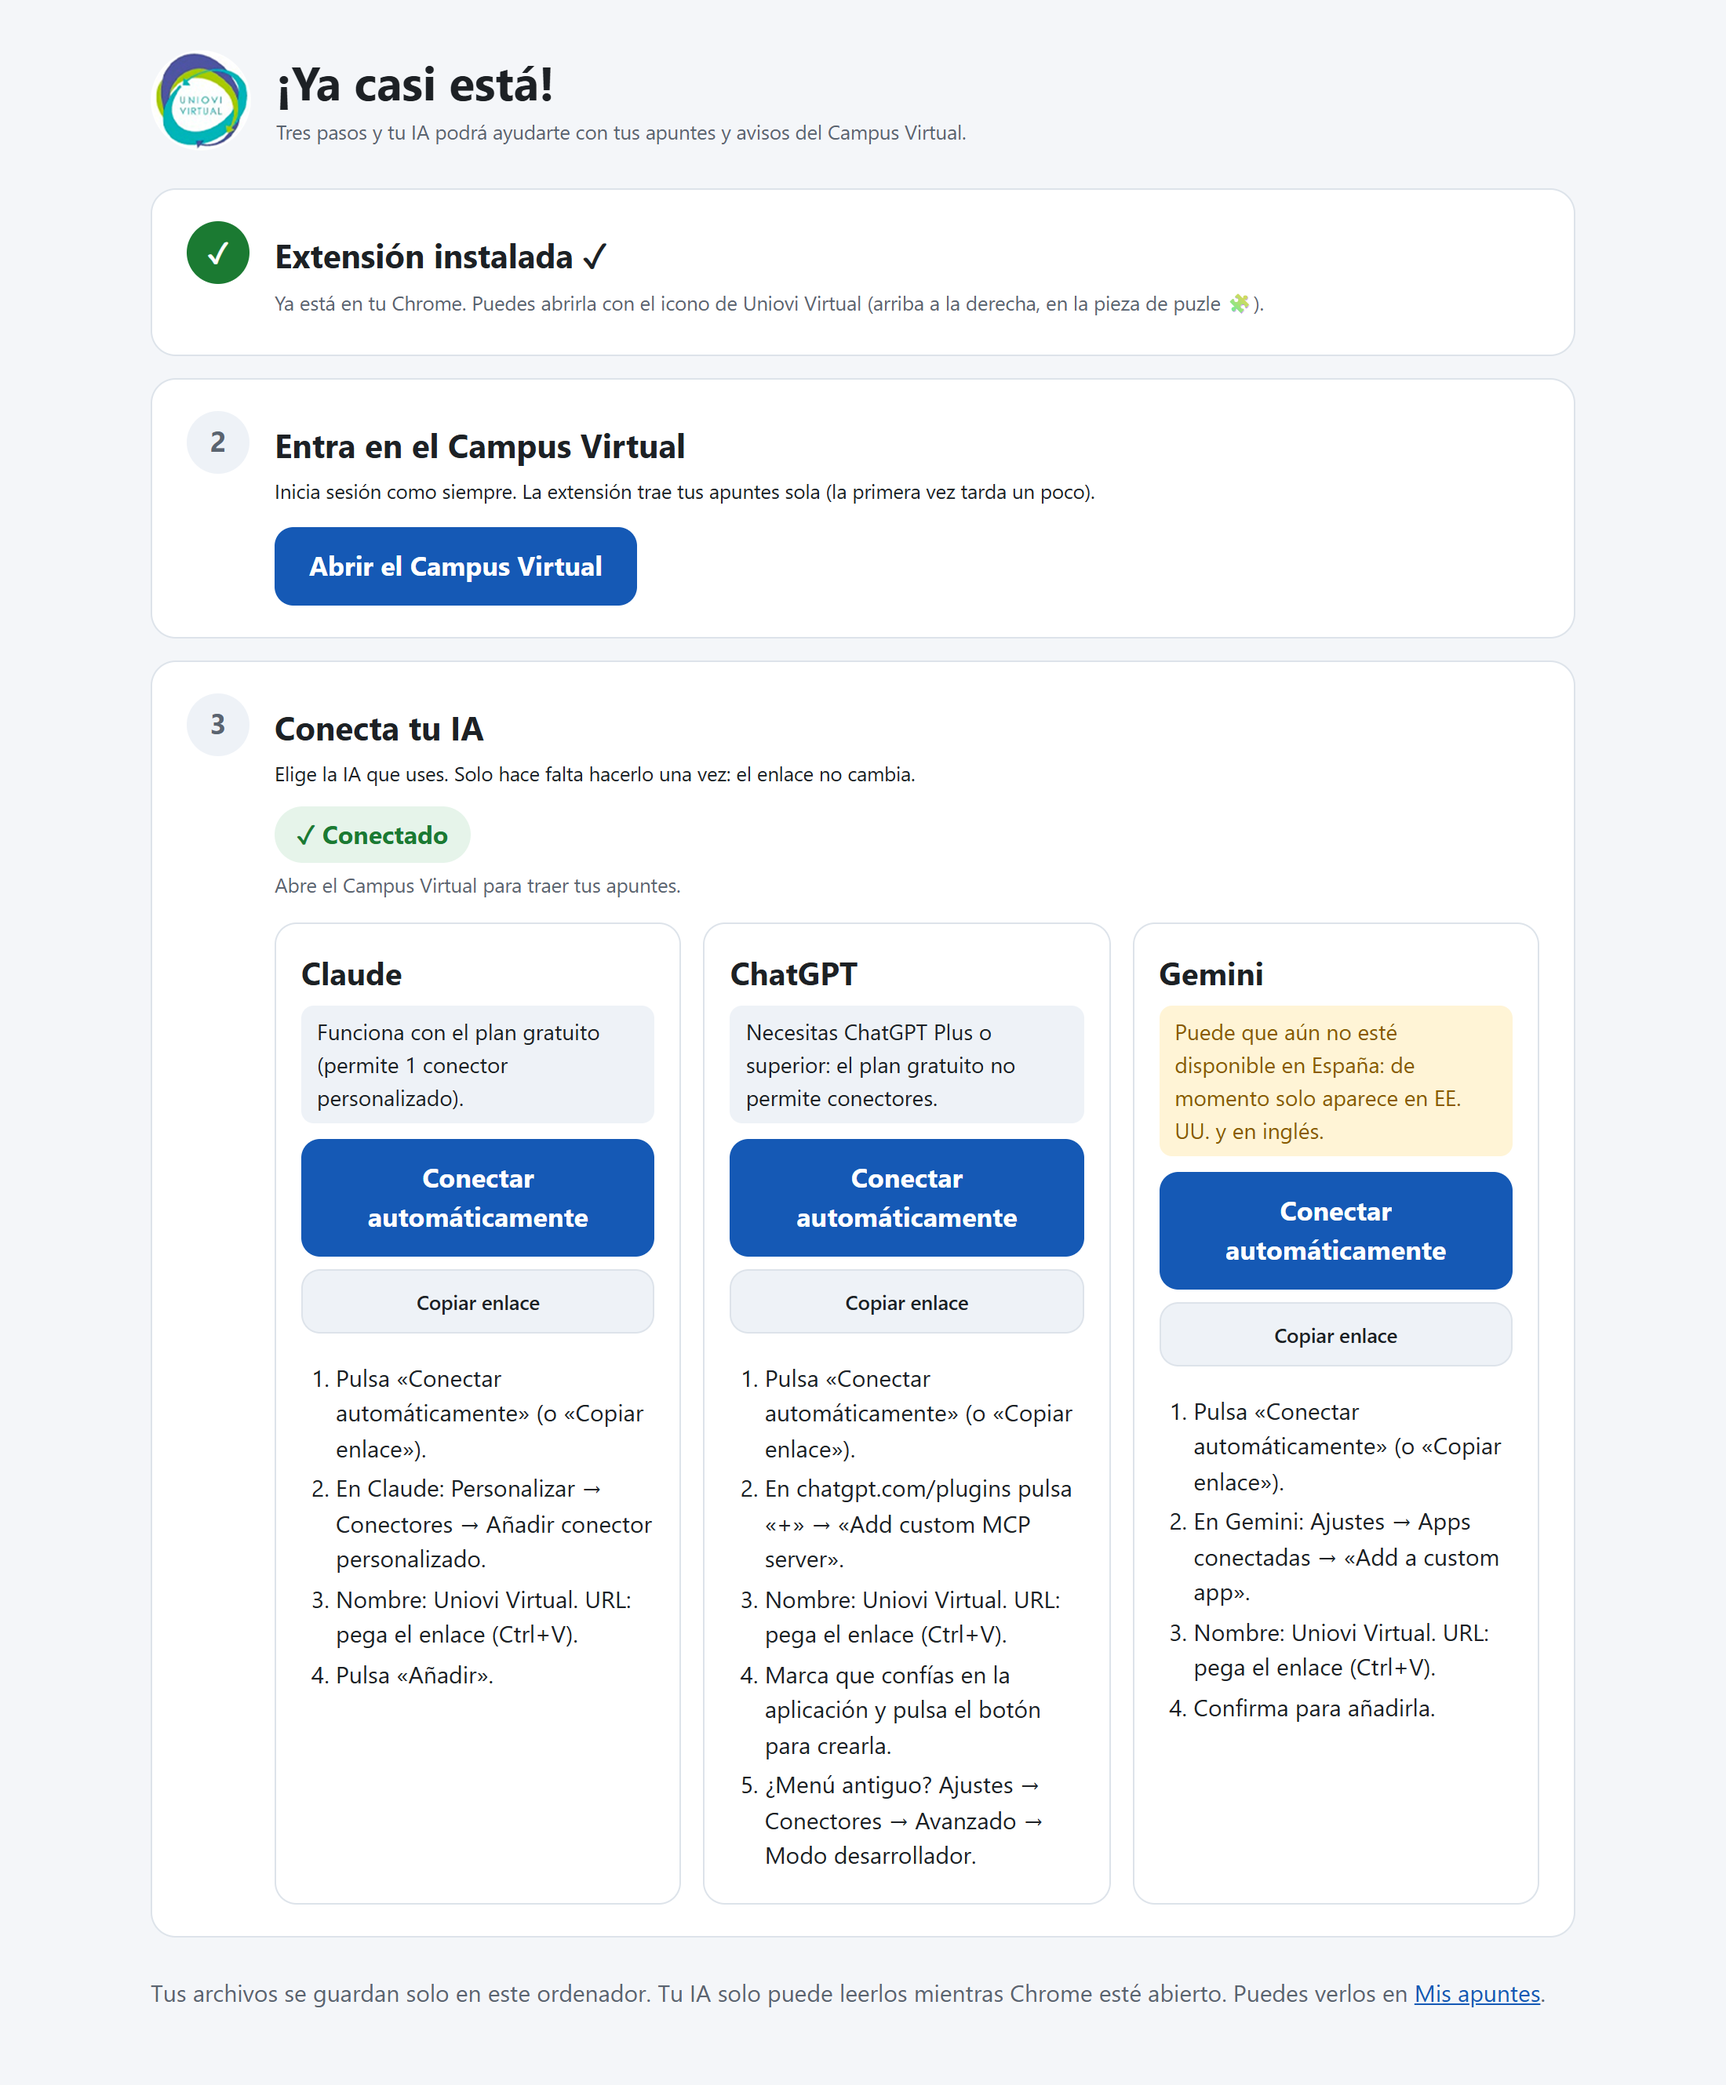
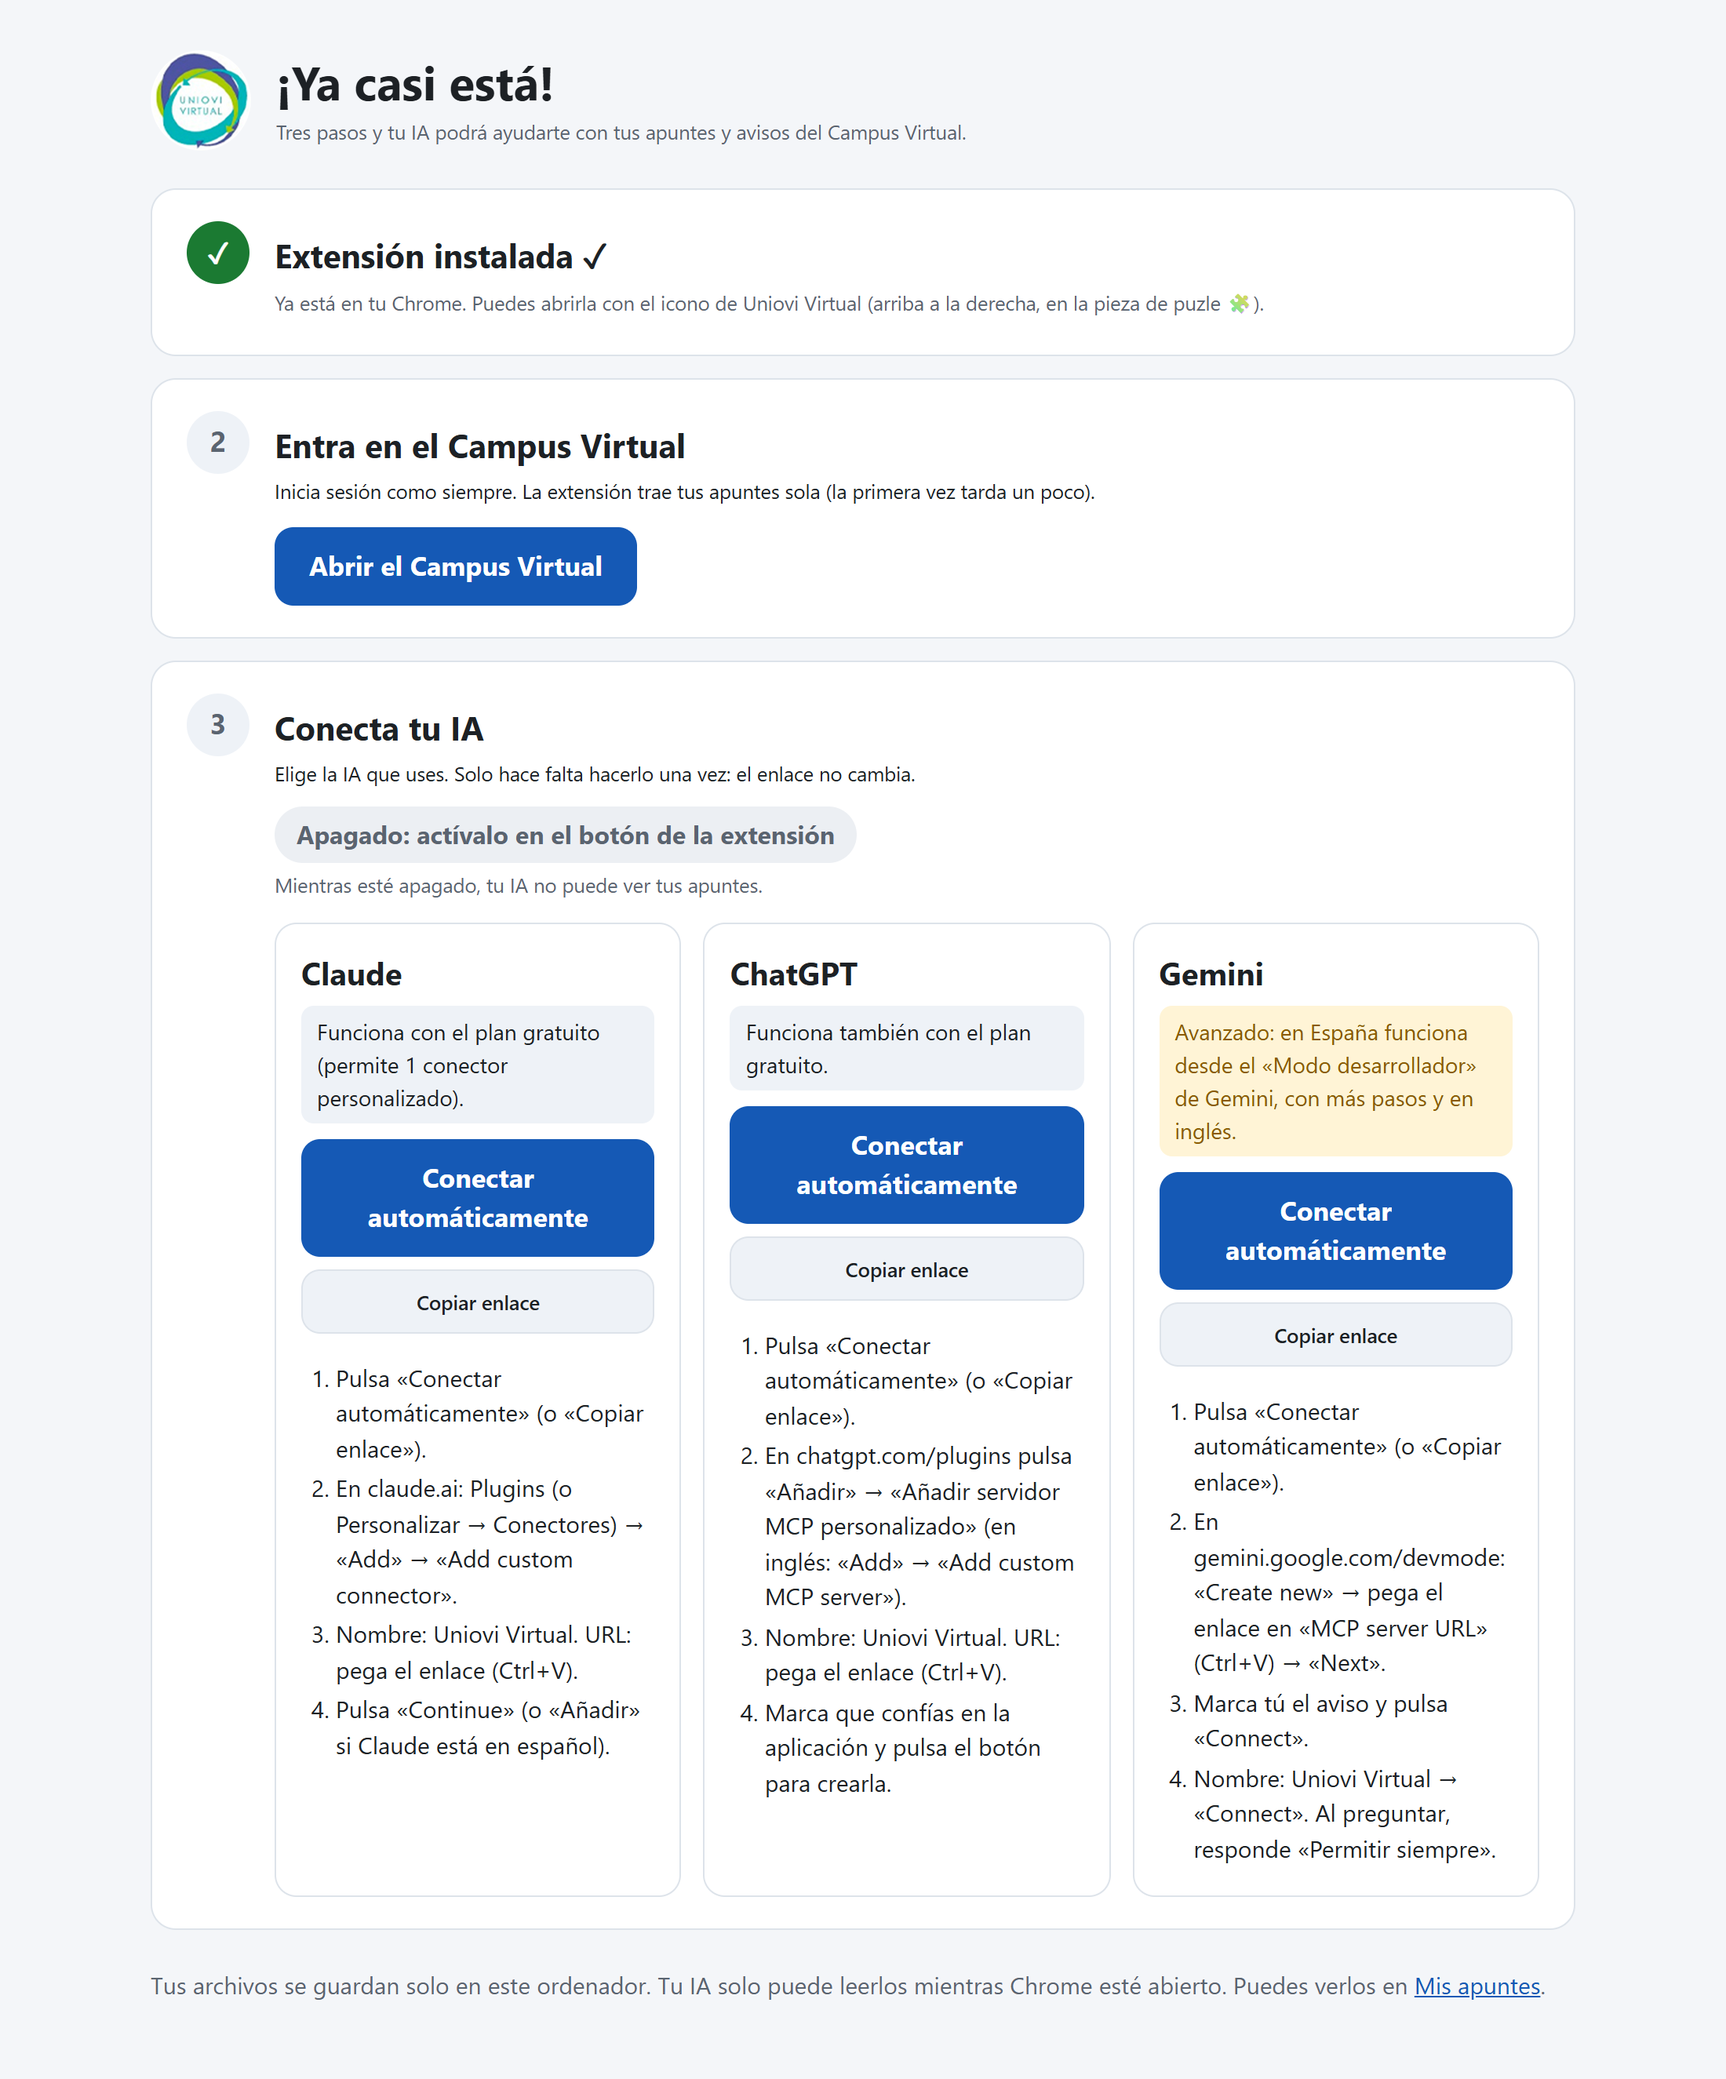
Guide: connector screenshots, steps match the live Claude, ChatGPT and Gemini screens

diff --git a/docs/index.html b/docs/index.html
@@ -68,35 +68,37 @@ En las imágenes el enlace aparece tapado (<code>https://…/mcp/•••••
 
 <h3>Claude (gratis, recomendado)</h3>
 <ol>
-  <li>En claude.ai: <em>Personalizar → Conectores</em> → <em>Añadir conector personalizado</em>.
-    <figure><img src="img/claude-1-conectores.png" alt="Página Conectores de Claude con el botón Añadir conector personalizado">
-    <figcaption>Personalizar → Conectores → Añadir conector personalizado.</figcaption></figure></li>
-  <li>Nombre: <code>Uniovi Virtual</code>. URL: pega el enlace. Pulsa <em>Añadir</em>.
-    <figure><img src="img/claude-2-formulario.png" alt="Formulario de Claude con el nombre y el enlace escritos">
-    <figcaption>Con el nombre y el enlace ya escritos, pulsa Añadir.</figcaption></figure></li>
+  <li>En claude.ai: <em>Plugins</em> (o <em>Personalizar → Conectores</em>) → <em>Add</em> → <em>Add custom connector</em>
+    (en español: <em>Añadir → Añadir conector personalizado</em>).
+    <figure><img src="img/claude-1-conectores.png" alt="Menú Add de Claude con la opción Add custom connector marcada">
+    <figcaption>Add → Add custom connector.</figcaption></figure></li>
+  <li>Nombre: <code>Uniovi Virtual</code>. URL: pega el enlace. Pulsa <em>Continue</em> (o <em>Añadir</em> si Claude está en español).
+    <figure><img src="img/claude-2-formulario.png" alt="Ventana Add custom connector con el nombre Uniovi Virtual y el enlace tapado">
+    <figcaption>El nombre y el enlace ya están escritos: revisa y pulsa Continue.</figcaption></figure></li>
 </ol>
 
 <h3>ChatGPT (también gratis)</h3>
 <ol>
-  <li>Abre <code>chatgpt.com/plugins</code>, pulsa <em>+</em> y elige <em>Add custom MCP server</em>.
-    <figure><img src="img/chatgpt-1-menu.png" alt="Menú + de ChatGPT con la opción Add custom MCP server">
-    <figcaption>«+» → Add custom MCP server.</figcaption></figure></li>
-  <li>Nombre: <code>Uniovi Virtual</code>. URL: pega el enlace. Marca que confías en la aplicación y pulsa <em>Create</em>.
-    <figure><img src="img/chatgpt-2-formulario.png" alt="Formulario de ChatGPT con nombre, enlace y la casilla de confianza">
-    <figcaption>Marca la casilla de confianza y pulsa Create.</figcaption></figure></li>
+  <li>Abre <code>chatgpt.com/plugins</code>, pulsa <em>Añadir</em> y elige <em>Añadir servidor MCP personalizado</em>.
+    <figure><img src="img/chatgpt-1-menu.png" alt="Menú Añadir de ChatGPT con la opción Añadir servidor MCP personalizado marcada">
+    <figcaption>Añadir → Añadir servidor MCP personalizado.</figcaption></figure></li>
+  <li>Nombre: <code>Uniovi Virtual</code>. En <em>URL del servidor</em>: pega el enlace.
+    Marca <em>Lo entiendo y quiero continuar</em> y pulsa <em>Crear como complemento</em>.
+    <figure><img src="img/chatgpt-2-formulario.png" alt="Formulario de ChatGPT con el nombre Uniovi Virtual, el enlace tapado y la casilla Lo entiendo y quiero continuar">
+    <figcaption>El nombre y el enlace ya están escritos: marca «Lo entiendo» y pulsa Crear.</figcaption></figure></li>
 </ol>
 
 <h3>Gemini (avanzado, en inglés)</h3>
 <ol>
-  <li>La extensión abre <code>gemini.google.com/devmode</code>, pulsa <em>Create new</em>, pega el enlace en <em>MCP Server URL</em> y pulsa <em>Next</em>.
-    <figure><img src="img/gemini-1-url.png" alt="Gemini: campo MCP Server URL con el enlace y el botón Next">
-    <figcaption>El enlace ya está pegado en MCP Server URL.</figcaption></figure></li>
-  <li>Lee el aviso, <strong>márcalo tú</strong> y pulsa <em>Connect</em>.
-    <figure><img src="img/gemini-2-aviso.png" alt="Gemini: aviso de riesgo con su casilla y el botón Connect">
+  <li>La extensión abre <code>gemini.google.com/devmode</code>, pulsa <em>Create new</em>, pega el enlace en <em>MCP server URL</em> y pulsa <em>Next</em>.
+    <figure><img src="img/gemini-1-url.png" alt="Ventana Connect to an MCP server de Gemini con el enlace tapado y el botón Next">
+    <figcaption>El enlace se pega solo y se pulsa Next.</figcaption></figure></li>
+  <li>Lee el aviso, <strong>marca tú</strong> <em>I understand and accept…</em> y pulsa <em>Connect</em>.
+    <figure><img src="img/gemini-2-aviso.png" alt="Gemini: casilla I understand and accept the security and privacy risks y botón Connect">
     <figcaption>Marca el aviso y pulsa Connect.</figcaption></figure></li>
-  <li>El nombre <code>Uniovi Virtual</code> se escribe solo. Pulsa <em>Connect</em>.
-    <figure><img src="img/gemini-3-nombre.png" alt="Gemini: campo de nombre con Uniovi Virtual y el botón Connect">
-    <figcaption>Con el nombre puesto, pulsa Connect.</figcaption></figure></li>
+  <li>En <em>App name</em> ya aparece <code>Uniovi Virtual</code>, con la lista de lo que puede consultar. Pulsa <em>Connect</em>.
+    <figure><img src="img/gemini-3-nombre.png" alt="Ventana Save your custom app de Gemini con el nombre Uniovi Virtual y la lista de acciones disponibles">
+    <figcaption>El nombre ya está: pulsa Connect.</figcaption></figure></li>
   <li>En un chat escribe <code>@Uniovi Virtual</code> y tu pregunta. Cuando pregunte, responde <em>Permitir siempre</em>.</li>
 </ol>
 <p><small>El plan gratuito de Gemini se agota rápido.</small></p>

diff --git a/docs/USO-CON-IA-WEB.md b/docs/USO-CON-IA-WEB.md
@@ -96,29 +96,29 @@ Si algo no sale bien, la extensión te lo dice y puedes usar la forma manual.
 2. Pégalo en tu IA como **conector personalizado**:
 
 **Claude (claude.ai)**
-1. Menú de tu cuenta → **Personalizar** (*Customize*) → **Conectores** (*Connectors*).
-2. **Añadir** → **Añadir conector personalizado** (*Add custom connector*).
+1. Ve a **Plugins** (también se llega desde **Personalizar → Conectores**).
+2. **Add** → **Add custom connector** (en español: **Añadir** → **Añadir conector personalizado**).
 
-![Conectores de Claude, botón Añadir conector personalizado](img/claude-1-conectores.png)
+![Menú Add de Claude con Add custom connector](img/claude-1-conectores.png)
 
-3. Nombre: `Uniovi Virtual`. URL: pega el enlace. Pulsa **Añadir**.
+3. Nombre: `Uniovi Virtual`. URL: pega el enlace. Pulsa **Continue** (o **Añadir** si Claude está en español).
 
-![Formulario de Claude con el nombre y el enlace](img/claude-2-formulario.png)
+![Ventana Add custom connector con el nombre y el enlace tapado](img/claude-2-formulario.png)
 
 4. En un chat nuevo, comprueba que Uniovi Virtual está activado en el menú de herramientas.
 
 En el plan gratuito solo cabe **un** conector personalizado. Si ya tenías otro, tendrás que quitarlo para añadir este.
 
 **ChatGPT (también gratis)**
-1. Ve a <https://chatgpt.com/plugins> y pulsa **+**.
-2. Elige **Añadir servidor MCP personalizado** (*Add custom MCP server*).
+1. Ve a <https://chatgpt.com/plugins> y pulsa **Añadir**.
+2. Elige **Añadir servidor MCP personalizado**.
 
-![Menú + de ChatGPT con Add custom MCP server](img/chatgpt-1-menu.png)
+![Menú Añadir de ChatGPT con Añadir servidor MCP personalizado](img/chatgpt-1-menu.png)
 
-3. Nombre: `Uniovi Virtual`. URL: pega el enlace.
-4. Marca la casilla de que confías en la aplicación y pulsa **Crear** (*Create*).
+3. Nombre: `Uniovi Virtual`. En **URL del servidor**: pega el enlace.
+4. Marca **Lo entiendo y quiero continuar** y pulsa **Crear como complemento**.
 
-![Formulario de ChatGPT con nombre, enlace y la casilla de confianza](img/chatgpt-2-formulario.png)
+![Formulario de ChatGPT con el nombre, el enlace tapado y la casilla Lo entiendo y quiero continuar](img/chatgpt-2-formulario.png)
 
 5. En el chat, elige Uniovi Virtual en el menú **+**.
 
@@ -126,17 +126,17 @@ En el plan gratuito solo cabe **un** conector personalizado. Si ya tenías otro,
 
 Es la opción más avanzada: todo está en inglés y hay tres pantallas. Con **Conectar automáticamente** la extensión hace casi todo; solo te deja a ti marcar el aviso y pulsar **Connect**.
 1. Ve a <https://gemini.google.com/devmode> y pulsa **Create new**.
-2. Pega el enlace en **MCP Server URL** y pulsa **Next**.
+2. Pega el enlace en **MCP server URL** y pulsa **Next**.
 
-![Gemini: campo MCP Server URL con el enlace](img/gemini-1-url.png)
+![Gemini: ventana Connect to an MCP server con el enlace tapado](img/gemini-1-url.png)
 
-3. Lee el aviso de riesgo, **márcalo** y pulsa **Connect**.
+3. Lee el aviso, marca **I understand and accept…** y pulsa **Connect**.
 
-![Gemini: aviso de riesgo y botón Connect](img/gemini-2-aviso.png)
+![Gemini: casilla I understand and accept y botón Connect](img/gemini-2-aviso.png)
 
-4. Nombre: `Uniovi Virtual` (con la forma automática ya está escrito). Pulsa **Connect**.
+4. En **App name** escribe `Uniovi Virtual` (con la forma automática ya está escrito). Debajo verás la lista de lo que puede consultar. Pulsa **Connect**.
 
-![Gemini: nombre Uniovi Virtual y botón Connect](img/gemini-3-nombre.png)
+![Gemini: ventana Save your custom app con el nombre Uniovi Virtual](img/gemini-3-nombre.png)
 
 5. En un chat normal escribe `@Uniovi Virtual` y tu pregunta. Cuando pregunte si puede usarlo, responde **Permitir siempre**.
 
